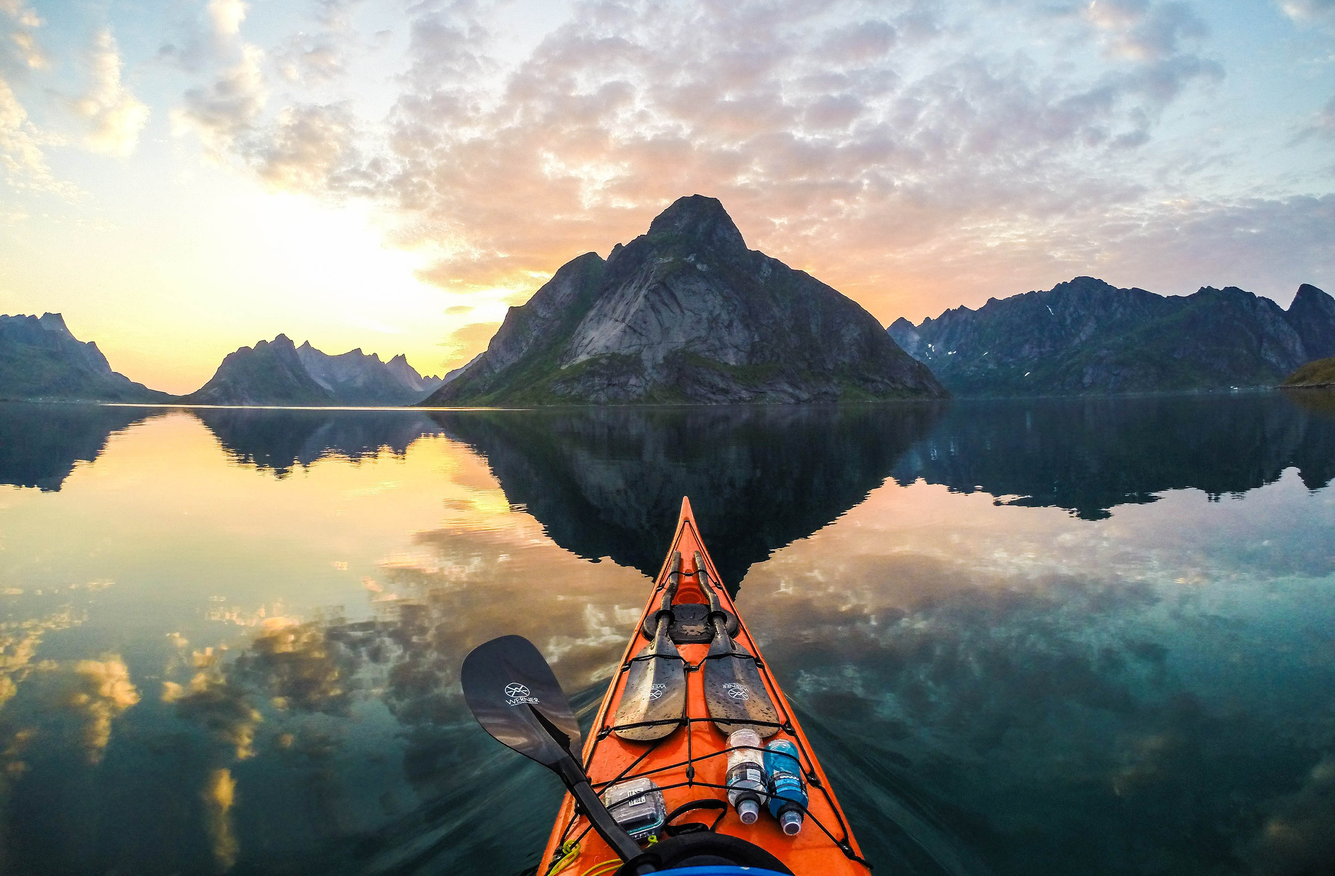
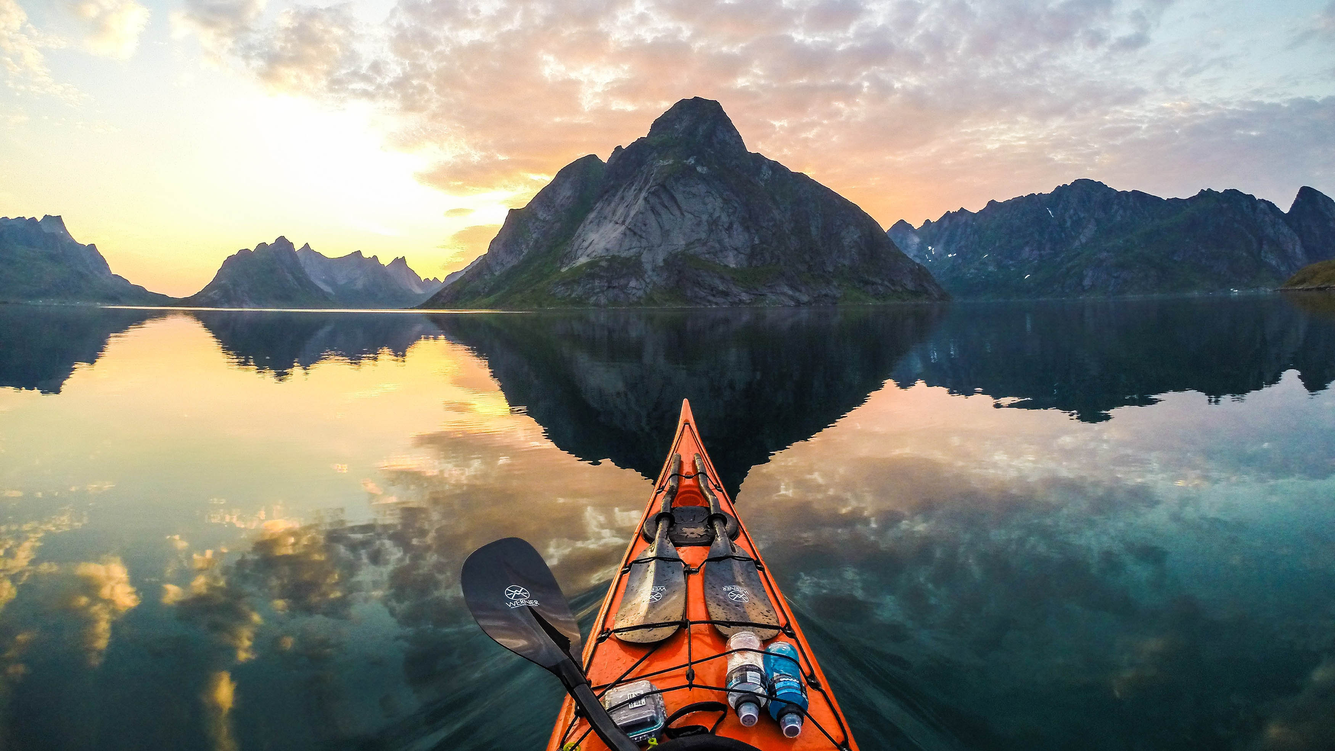
Resize all images

diff --git a/src/page/HomePage.js b/src/page/HomePage.js
@@ -12,16 +12,18 @@ export default class HomePage extends Page
 
         return (
             <div className="home-page">
-                <header>
+                <section className="headlines">
                     <Carousel swipeOptions={{ continuous: true, auto: 3000 }}>
                         {challenges.map(challenge => (
-                            <div style={{ float: "left" }}>
+                            <div key={challenge.id + "-container"} style={{ float: "left" }}>
                                 <ChallengeCard key={challenge.id} challenge={challenge}/>
                             </div>
                         ))}
                     </Carousel>
-                </header>
-                <h1>abc</h1>
+                </section>
+                <section className="most-polular">
+
+                </section>
             </div>
         );
     }
